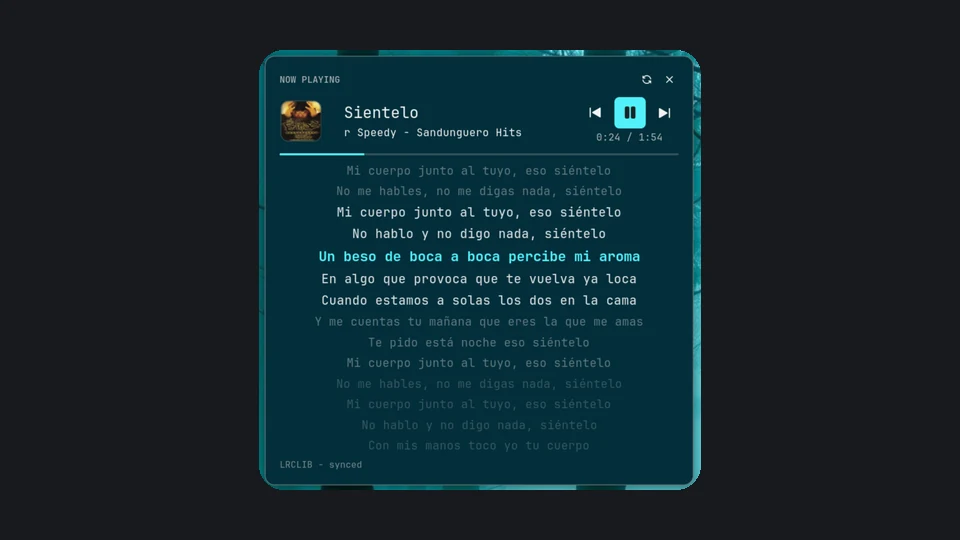
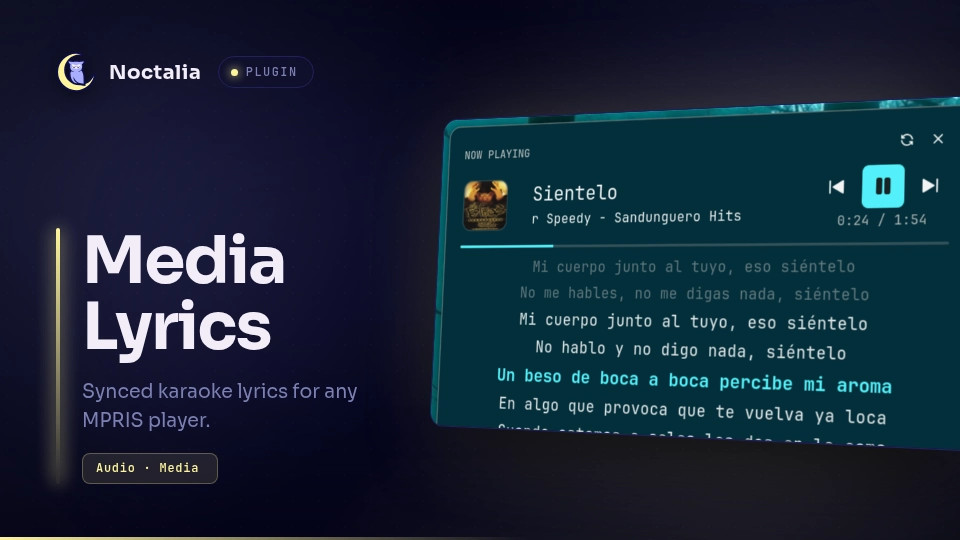
fix: v0.8.10 — community review #592: declare curl, route panel strings via tr(), official thumbnail

diff --git a/media-lyrics/README.md b/media-lyrics/README.md
@@ -1,6 +1,6 @@
 # Media Lyrics
 
-A full-featured media player panel with **time-synced lyrics** for the Noctalia desktop shell. Karaoke-style lyric carousel (14 visible lines), album cover, transport controls, and a progress bar — all in one floating panel. **Pure Luau, zero external dependencies**: no playerctl, no python daemons, no GTK overlays.
+A full-featured media player panel with **time-synced lyrics** for the Noctalia desktop shell. Karaoke-style lyric carousel (14 visible lines), album cover, transport controls, and a progress bar — all in one floating panel. **Pure Luau implementation**: no playerctl, no python daemons, no GTK overlays — runtime needs `busctl` (MPRIS) and `curl` (LRCLIB HTTPS).
 
 | Light theme | Dark theme |
 | --- | --- |
@@ -17,9 +17,10 @@ A full-featured media player panel with **time-synced lyrics** for the Noctalia 
 
 - Noctalia v5 (plugin API 24+)
 - `busctl` (systemd, present on every Arch install)
+- `curl` — used for the LRCLIB HTTPS fetch (spawned as `curl -sSf -m 8 -4 <url>`, argv-only, no shell; LRCLIB resolves IPv4 faster than the built-in HTTP client on some setups)
 - Outbound HTTPS access to `https://lrclib.net` for synced lyrics
 
-No player-specific software. Any MPRIS-capable player works: Spotify, MPD, Cider, web players, VLC, and anything else that exposes MPRIS over D-Bus.
+No player-specific software. Any MPRIS-capable player works: Spotify, MPD, Cider, web players, VLC, and anything else that exposes MPRIS over D-Bus. `sleep` (coreutils) is used for a short refresh delay after transport commands.
 
 ## Usage
 
@@ -61,7 +62,7 @@ The panel shows the active MPRIS player automatically; when nothing is playing i
 
 ## Advantages over alternative lyric plugins
 
-- **Zero external dependencies.** No playerctl, python daemons, pip packages, or GTK overlays to install and maintain. Enable → works.
+- **Lean runtime.** No playerctl, python daemons, pip packages, or GTK overlays to install and maintain — just `busctl` and `curl`, present on virtually every Linux system. Enable → works.
 - **Player-agnostic.** Reads MPRIS directly via Noctalia's D-Bus aggregator — works with any player, not tied to a specific app.
 - **A real panel, not a 1–3 line bar widget.** Full-screen-height carousel with 14 visible lines keeps whole verses in view.
 - **Overflow handled properly.** Long titles get a marquee, single-line sanitizer strips embedded newlines, integer button heights prevent glyph overlap.
@@ -107,5 +108,6 @@ Upcoming work, roughly in priority order:
 ## Notes
 
 - The service polls MPRIS via `busctl` (150 ms cadence) and publishes a snapshot to `noctalia.state`; the panel animates from those publishes.
-- Lyrics are fetched from the public LRCLIB API; nothing is uploaded. Cache and local lyrics live under the plugin data directory and `local_lyrics_dir`.
+- Lyrics are fetched from the public LRCLIB API with `curl`; nothing is uploaded. Cache and local lyrics live under the plugin data directory and `local_lyrics_dir`.
+- Spawned processes (all argv-form, no shell): `busctl` (MPRIS poll), `curl` (LRCLIB fetch, IPv4, 8 s timeout), `sleep` (coreutils, 0.35 s refresh delay after transport commands).
 - Adapted from the Clavis shell media player text layer (karaoke render + LRCLIB provider), ported to pure Luau for Noctalia v5.

diff --git a/media-lyrics/CHANGELOG.md b/media-lyrics/CHANGELOG.md
@@ -4,6 +4,24 @@ All notable changes to **Media Lyrics** are documented here.
 The format follows [Keep a Changelog](https://keepachangelog.com/en/1.1.0/)
 and this project adheres to [Semantic Versioning](https://semver.org/spec/v2.0.0.html).
 
+## [0.8.10] — 2026-09-02
+
+### Fixed
+
+- **Community review compliance** (noctalia-dev/community-plugins #592):
+  - `curl` now declared in `dependencies` and the README Requirements —
+    the service spawns it for LRCLIB fetches (`-sSf -m 8 -4`, argv-only, no
+    shell). `sleep` (coreutils) documented in the README Notes.
+  - Plugin description no longer claims "no external dependencies" — it
+    states the real runtime needs (`busctl` + `curl`).
+  - Panel chrome is fully routed through `noctalia.tr()` with keys in
+    `translations/en.json` ("Loading lyrics…", "Lyrics error: ", "No lyrics
+    found", "No media player", "(no title)", "NOW PLAYING", "Reload lyrics",
+    "synced"/"unsynced") — other locales can now be provided via Noctalia
+    Translate instead of rendering hardcoded English.
+  - Thumbnail regenerated with the official thumbnail generator
+    (assets.noctalia.dev, 960×540 WebP).
+
 ## [0.8.9] — 2026-09-01
 
 ### Fixed
